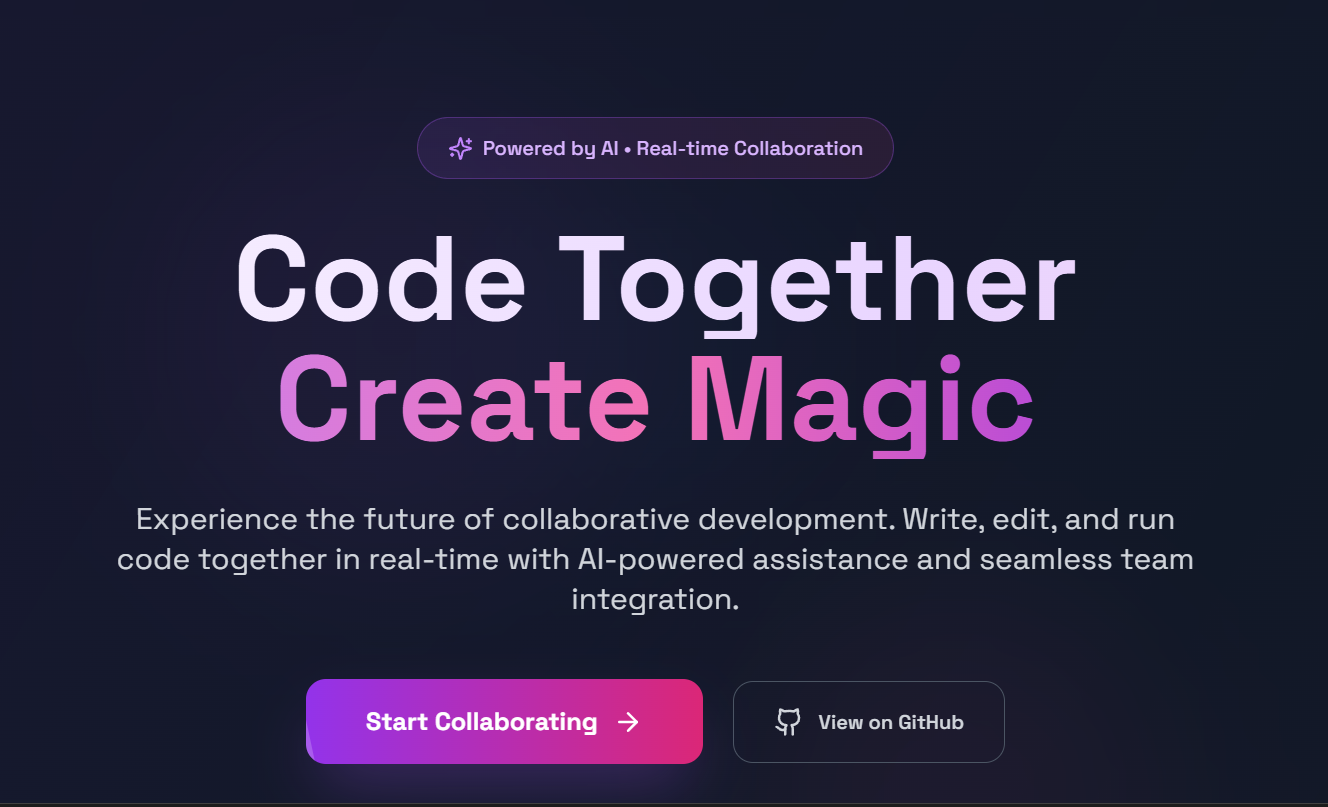
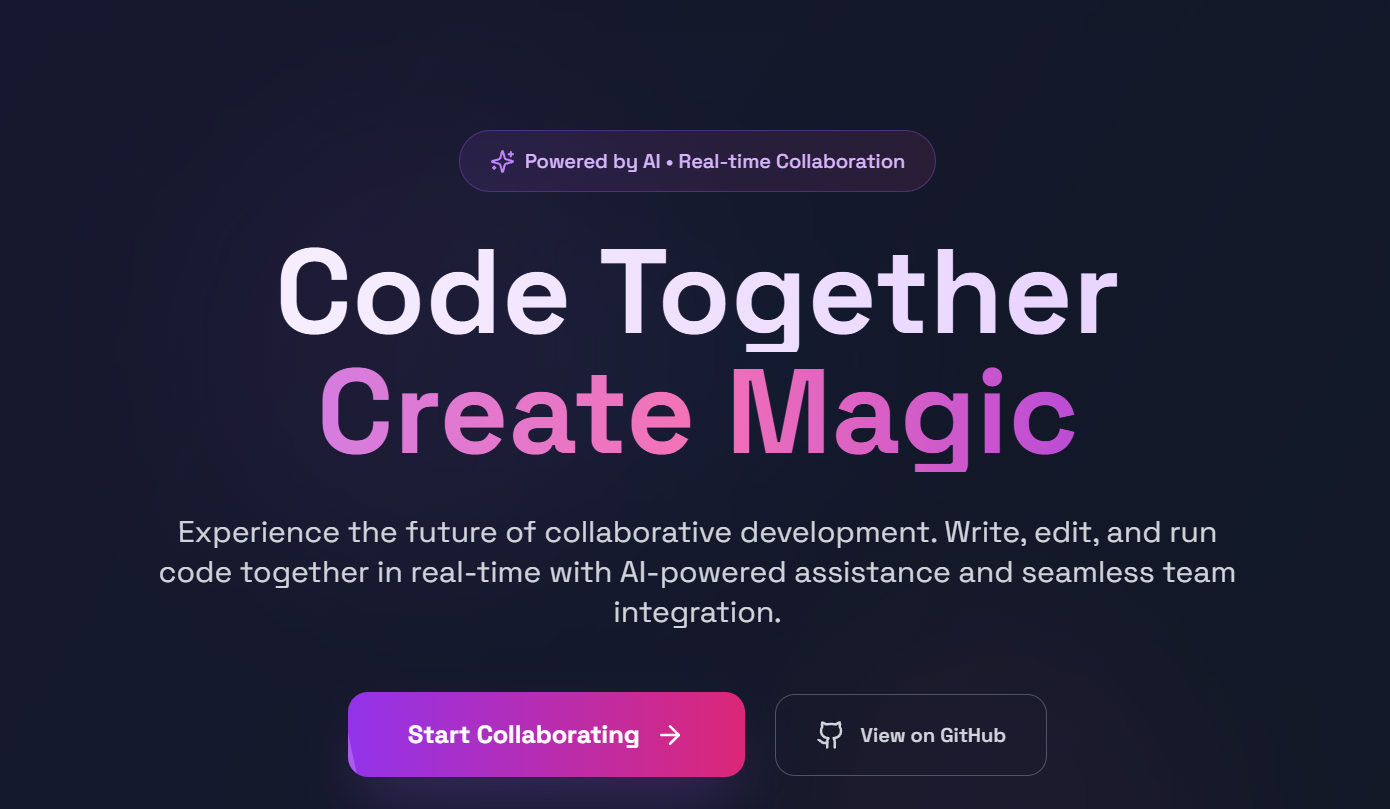
data updated

diff --git a/data/index.ts b/data/index.ts
@@ -11,7 +11,7 @@ export const gridItems = [
   {
     id: 1,
     title:
-      "As a Full Stack developer with strong background in building effecient and scalable full stack applications using latest technologies, I am on a mission to turn ideas into reality through code.",
+      "As a software developer with strong background in building effecient & scalable full stack applications using latest technologies, I am on a mission to turn ideas into reality through code.",
     description: "",
     className: "lg:col-span-3 md:col-span-6 md:row-span-4 lg:min-h-[60vh]",
     imgClassName: "w-full h-full",
@@ -77,30 +77,30 @@ export const gridItems = [
 export const projects = [
   {
     id: 1,
-    title: " Studyonic- Cloud-Native Ed-Tech Platform",
-    des: "A scalable production-grade edtech platform for creating, consuming, & rating edu. content.",
+    title: " Studyonic: Cloud-Native Ed-Tech",
+    des: "A scalable production-grade edtech platform for creating & consuming edu. content.",
     img: "/Studyonic.png",
     iconLists: [
       "/re.svg",
       "/Express.png",
-      "/tail.svg",
-      "/NodeJs.svg",
-      "/MongoDB.svg",
+      "/kafka.png",
+      "/redis.png",
+      "/awswhite.png",
     ],
     link: "http://56.228.25.38/",
     github: "https://github.com/auraticabhi/Studyonic",
   },
   {
     id: 2,
-    title: "PairFusion: A realtime collaborative code editor",
+    title: "PairFusion: Collaborative IDE 🌐",
     des: "A real-time, scalable and feature-rich IDE built for modern development team",
     img: "/PairFusion.png",
     iconLists: [
       "/re.svg",
-      "/Express.png",
-      "/tail.svg",
-      "/NodeJs.svg",
+      "/socketio.png",
+      "/redis.png",
       "/Docker.svg",
+      "googlecloud.png",
     ],
     link: "https://pair-fusion.vercel.app/",
     github: "https://github.com/auraticabhi/PairFusion",

diff --git a/constants/index.ts b/constants/index.ts
@@ -201,10 +201,61 @@ export const Backend_skill = [
     height: 70,
   },
   {
-    skill_name: "Rest APIs",
-    Image: "/restapis.png",
+    skill_name: "Kafka",
+    Image: "/kafka.png",
     width: 70,
     height: 70,
+  },
+  {
+    skill_name: "Redis",
+    Image: "/redis.png",
+    width: 70,
+    height: 70,
+  },
+  {
+    skill_name: "Socket.IO",
+    Image: "/socketio.png",
+    width: 75,
+    height: 75,
+  },
+];
+
+export const Devops_and_cloud = [
+  {
+    skill_name: "Git",
+    Image: "/gitr.png",
+    width: 70,
+    height: 70,
+  },
+  {
+    skill_name: "GitHub",
+    Image: "/git.svg",
+    width: 70,
+    height: 70,
+  },
+  {
+    skill_name: "Docker",
+    Image: "/Docker.svg",
+    width: 80,
+    height: 80,
+  },
+  {
+    skill_name: "AWS",
+    Image: "/awswhite.png",
+    width: 70,
+    height: 70,
+  },
+  {
+    skill_name: "Google Cloud",
+    Image: "/googlecloud.png",
+    width: 80,
+    height: 80,
+  },
+  {
+    skill_name: "Cloudflare",
+    Image: "/cloudflare.png",
+    width: 80,
+    height: 80,
   },
 ];
 
@@ -238,9 +289,9 @@ export const Languages = [
 
 export const Other_skill = [
   {
-    skill_name: "Socket.IO",
-    Image: "/socketio.png",
-    width: 69,
-    height: 69,
+    skill_name: "Postman",
+    Image: "/postman.svg",
+    width: 60,
+    height: 60,
   },
 ];

diff --git a/components/TechStack.tsx b/components/TechStack.tsx
@@ -3,6 +3,7 @@
 import {
   Backend_skill,
   Frontend_skill,
+  Devops_and_cloud,
   Languages,
   Other_skill,
   Skill_data,
@@ -51,6 +52,17 @@ const RecentProjects = () => {
           </div>
           <div className="flex flex-row justify-around flex-wrap mt-4 gap-5 items-center">
             {Backend_skill.map((image, index) => (
+              <SkillDataProvider
+                key={index}
+                src={image.Image}
+                width={image.width}
+                height={image.height}
+                index={index}
+              />
+            ))}
+          </div>
+          <div className="flex flex-row justify-around flex-wrap mt-4 gap-5 items-center">
+            {Devops_and_cloud.map((image, index) => (
               <SkillDataProvider
                 key={index}
                 src={image.Image}

diff --git a/components/Hero.tsx b/components/Hero.tsx
@@ -93,13 +93,13 @@ const Hero = () => {
           />
 
           <p className="text-center md:tracking-wider md:mb-4 mb-[42px] md:mt-1 mt-[0.5rem] opacity-95 text-sm md:text-lg lg:text-2xl">
-            I&apos;m a full stack developer based in India.
+            I&apos;m a software developer based in India.
           </p>
           <div className="flex flex-col md:flex-row md:gap-[1rem] gap-[1.5rem] items-baseline">
             <div className="flex gap-[1rem] items-baseline">
               <div>
                 <a
-                  href="https://drive.google.com/file/d/1ZYHYvrrbbXTlPxQANm2Y27JIE4TGsPNJ/view?usp=drivesdk"
+                  href="https://drive.google.com/file/d/1aZtqyh4Ye8AFK3UESueCh7AE2x18h7L0/view?usp=drivesdk"
                   target="_blank"
                 >
                   <MagicButton

diff --git a/lib/data.ts b/lib/data.ts
@@ -46,7 +46,7 @@ export const experiencesData = [
     title: "Diving into Technology",
     location: "",
     description:
-      "During this period, I deepened my interest in technology, learning new tools and frameworks such as React, Next.js, Express, etc. Along with development i also developed my interest in fundamental concepts in CS at this point and solved over 350+ DSA problems.",
+      "During this period, I deepened my interest in technology, learning new tools and frameworks such as React, Next.js, Express, etc. Along with development i also developed my interest in fundamental concepts in CS at this point and solved over 400+ DSA problems.",
     icon: React.createElement(FaReact),
     date: "2021 - 2023",
   },
